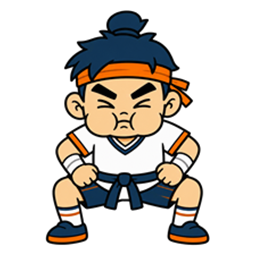
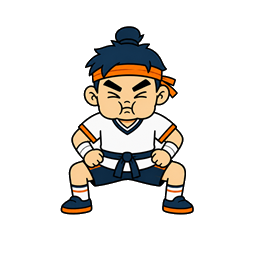
chore(soccer): 캐릭터 그림 팩 교체 (사용자 재업로드)
받은 압축 95장을 전부 덮어썼다. 파일 이름·개수는 그대로라 코드는 손댈 것이 없다.
실제로 **바뀐 것은 19장**이고 나머지 76장은 바이트까지 같았다.

- 농구부형 10장 전부(서기·달리기 3프레임·달리기 기본·킥·방귀·기절·환호·필살)
- 체육부장형 달리기 4장
- 방귀 5장 — 장난꾸러기·밴드부·육상부·수영부·전학생

교체 뒤 헤드리스로 한 판 띄워 그림이 정상으로 나오는지 확인했다.

Changed region(s): [[0.1562, 0.0312, 0.8438, 0.9688]]

diff --git a/soccer/HANDOFF.md b/soccer/HANDOFF.md
@@ -146,6 +146,9 @@
     월드컵=줄무늬 18줄+푸른 트랙+6단 관중석. 선 밝기·관중 밀도도 함께 다르다.
     선·박스·센터 서클을 **경기장 크기에 비례**하게 고쳤다(전에는 1200×800 고정값이라 큰 구장에서 작아 보였다).
   - 네 구장을 각각 스크린샷으로 확인했다.
+  - **캐릭터 그림 팩 재교체**(사용자 재업로드, 95장 4.8MB). 파일 이름·개수는 그대로고 **19장이 새 그림**이다 —
+    농구부 10장 전부, 체육부장 달리기 4장, 방귀 5장(장난꾸러기·밴드부·육상부·수영부·전학생).
+    나머지 76장은 바이트까지 같았다. 코드는 손댈 것이 없다(이름 규칙이 같다).
 - 문서 수정: 이 항목.
 - 다음 세션 첫 할 일: (선택) Deno KV 연결, 반 번호 선택 UI, 경기 중 난입.
 - 커밋: `fix(soccer): 로비·방 화면이 화면 밖에 그려지던 문제`
